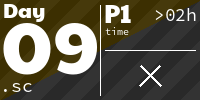
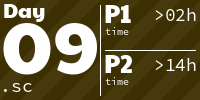
feat(day09): part 2

diff --git a/README.md b/README.md
@@ -2,7 +2,7 @@
 
 <!-- AOC TILES BEGIN -->
 <h1 align="center">
-  2025 - 17 ⭐ - SuperCollider
+  2025 - 18 ⭐ - SuperCollider
 </h1>
 <a href="2025/day01.sc">
   <img src=".aoc_tiles/tiles/2025/01.png" width="161px">
